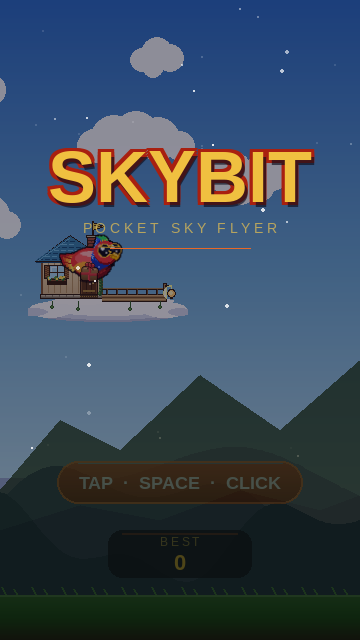
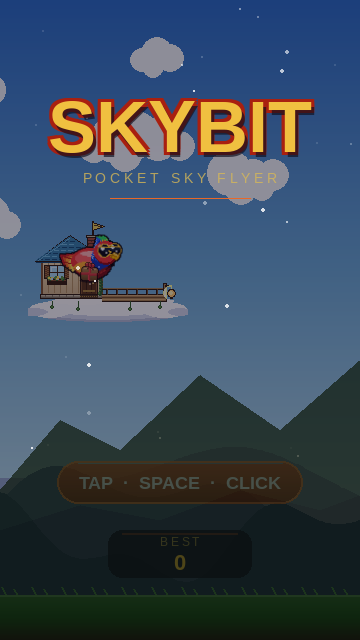
Lift the SKYBIT title above the post-house in the menu
The SKYBIT logo, subtitle and divider were overlapping with the
gameplay-opener composition (post-house top edge at y≈208,
parrot at y≈268) — the "POCKET SKY FLYER" line and the divider
line crossed Pip's body. Shifted the whole title block up by 50 px:

- SKYBIT centre 176 → 126
- Subtitle 228 → 178
- Divider 248 → 198

The tap pill and best-score panel at the bottom stay where they
were. Title now sits cleanly in the upper third with the post-
house + Pip composition fully visible below it.

https://claude.ai/code/session_01DjVcxFgAowHmtNKL17Sgyt

Changed region(s): [[0.1222, 0.1562, 0.8861, 0.375]]

diff --git a/game/hud.py b/game/hud.py
@@ -471,21 +471,23 @@ class HUD:
 
         _draw_overlay_stars(surf, self._stars, self.title_t)
 
-        # Floating title
+        # Floating title — sits above the gameplay-opener post-house +
+        # Pip composition (cottage top is at y≈208) so the text never
+        # crosses the parrot.
         pulse = 1.0 + math.sin(self.title_t * 2.4) * 0.04
         float_y = int(7 * math.sin(self.title_t * 1.8))
-        _outlined_text(surf, "SKYBIT", (W // 2, 176 + float_y),
+        _outlined_text(surf, "SKYBIT", (W // 2, 126 + float_y),
                         size=int(72 * pulse), px=3)
 
         # Subtitle
         sub_f = _font(14, False)
         sub = sub_f.render("P O C K E T   S K Y   F L Y E R", True, _GOLD_MUTED)
         sub.set_alpha(200)
-        surf.blit(sub, sub.get_rect(center=(W // 2, 228)))
+        surf.blit(sub, sub.get_rect(center=(W // 2, 178)))
 
         # Divider
         pygame.draw.line(surf, (*_ORANGE_BORDER, 120),
-                         (W // 2 - 70, 248), (W // 2 + 70, 248), 1)
+                         (W // 2 - 70, 198), (W // 2 + 70, 198), 1)
 
         # Tap-to-play pill (pulsing)
         btn_alpha = int(180 + math.sin(self.title_t * 3.6) * 70)
